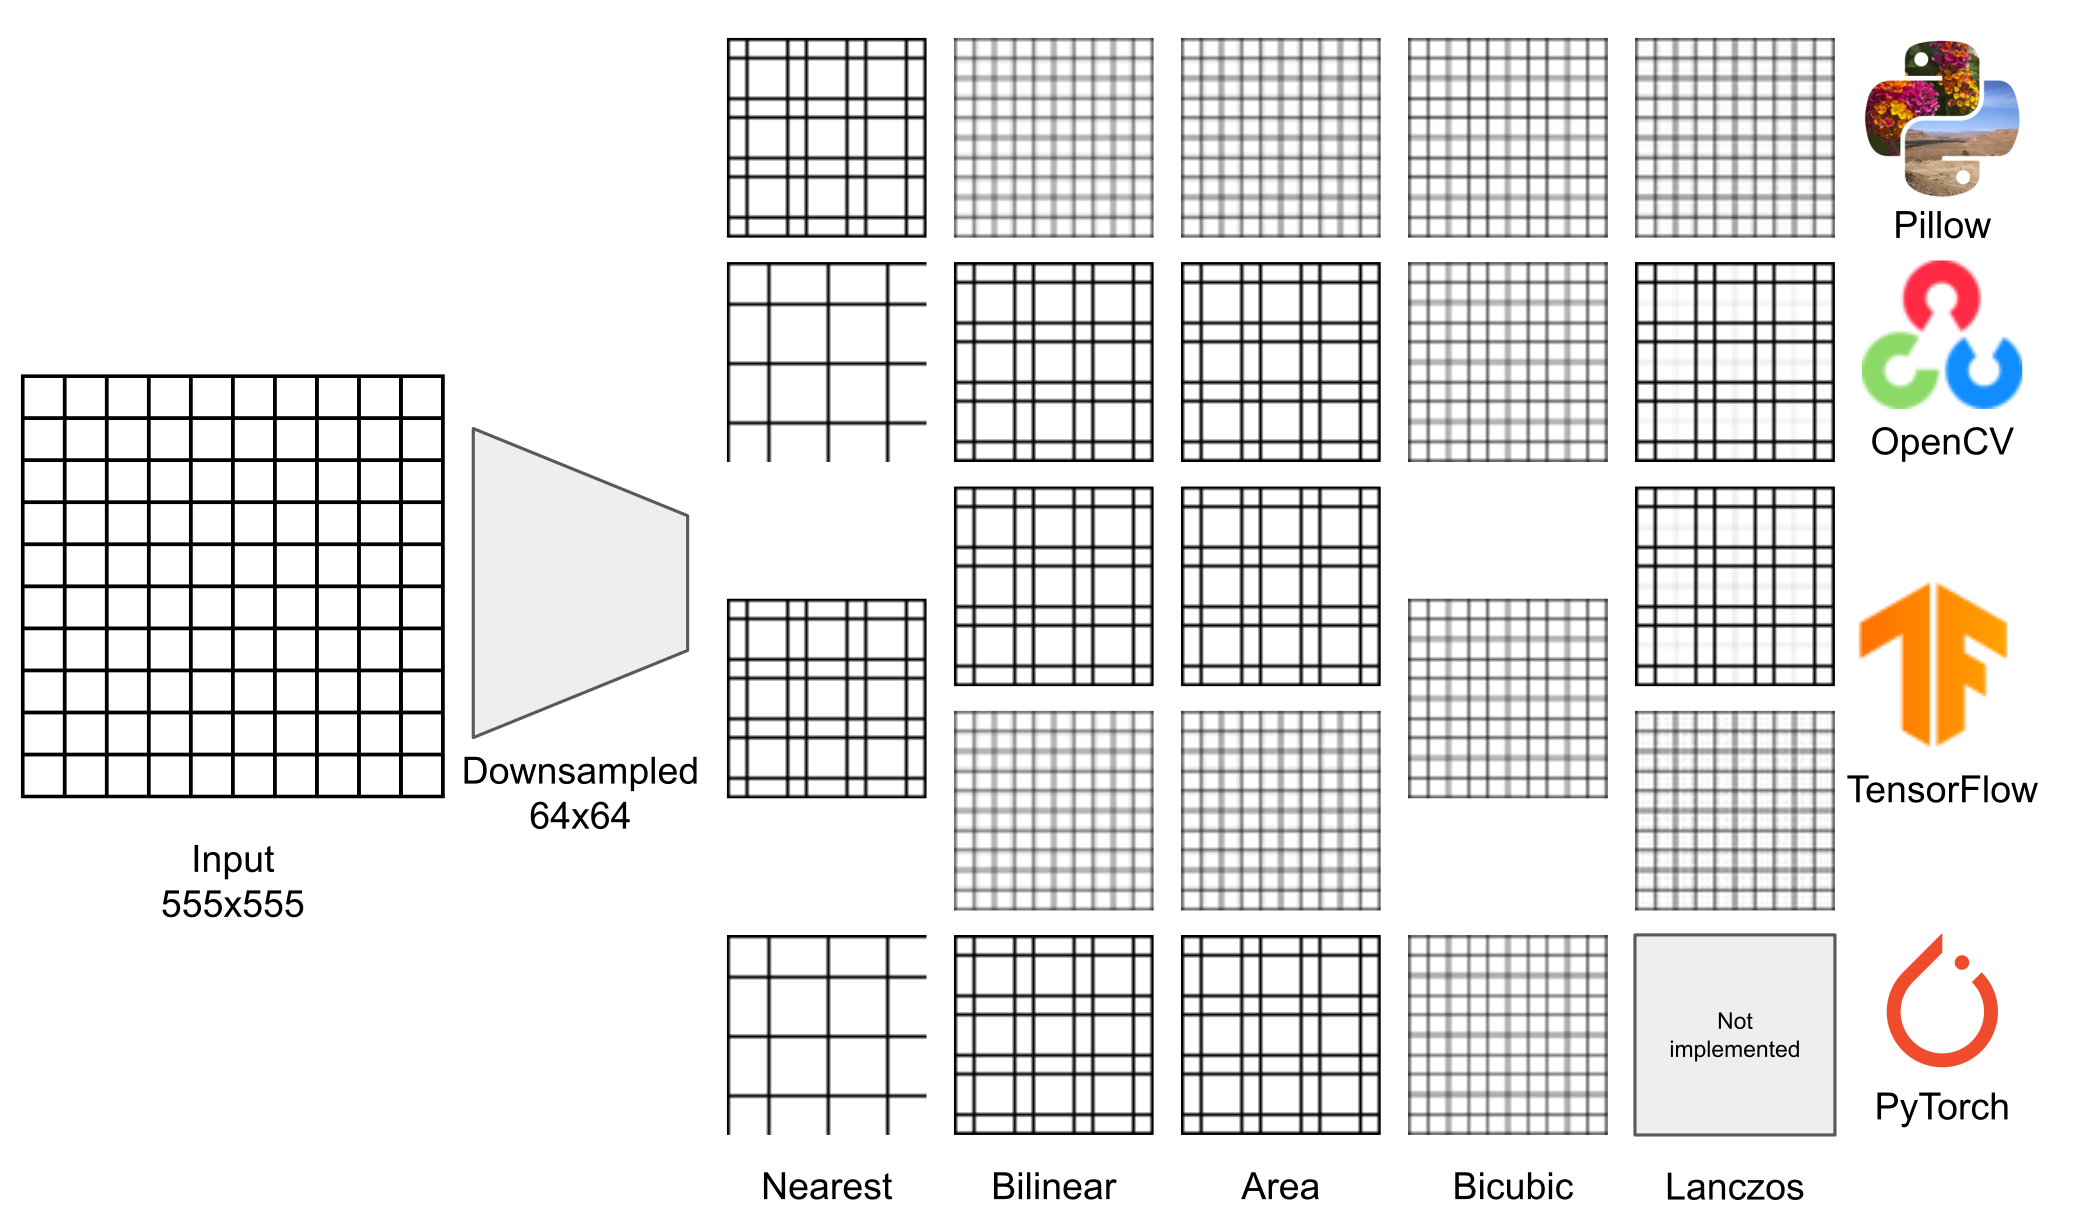
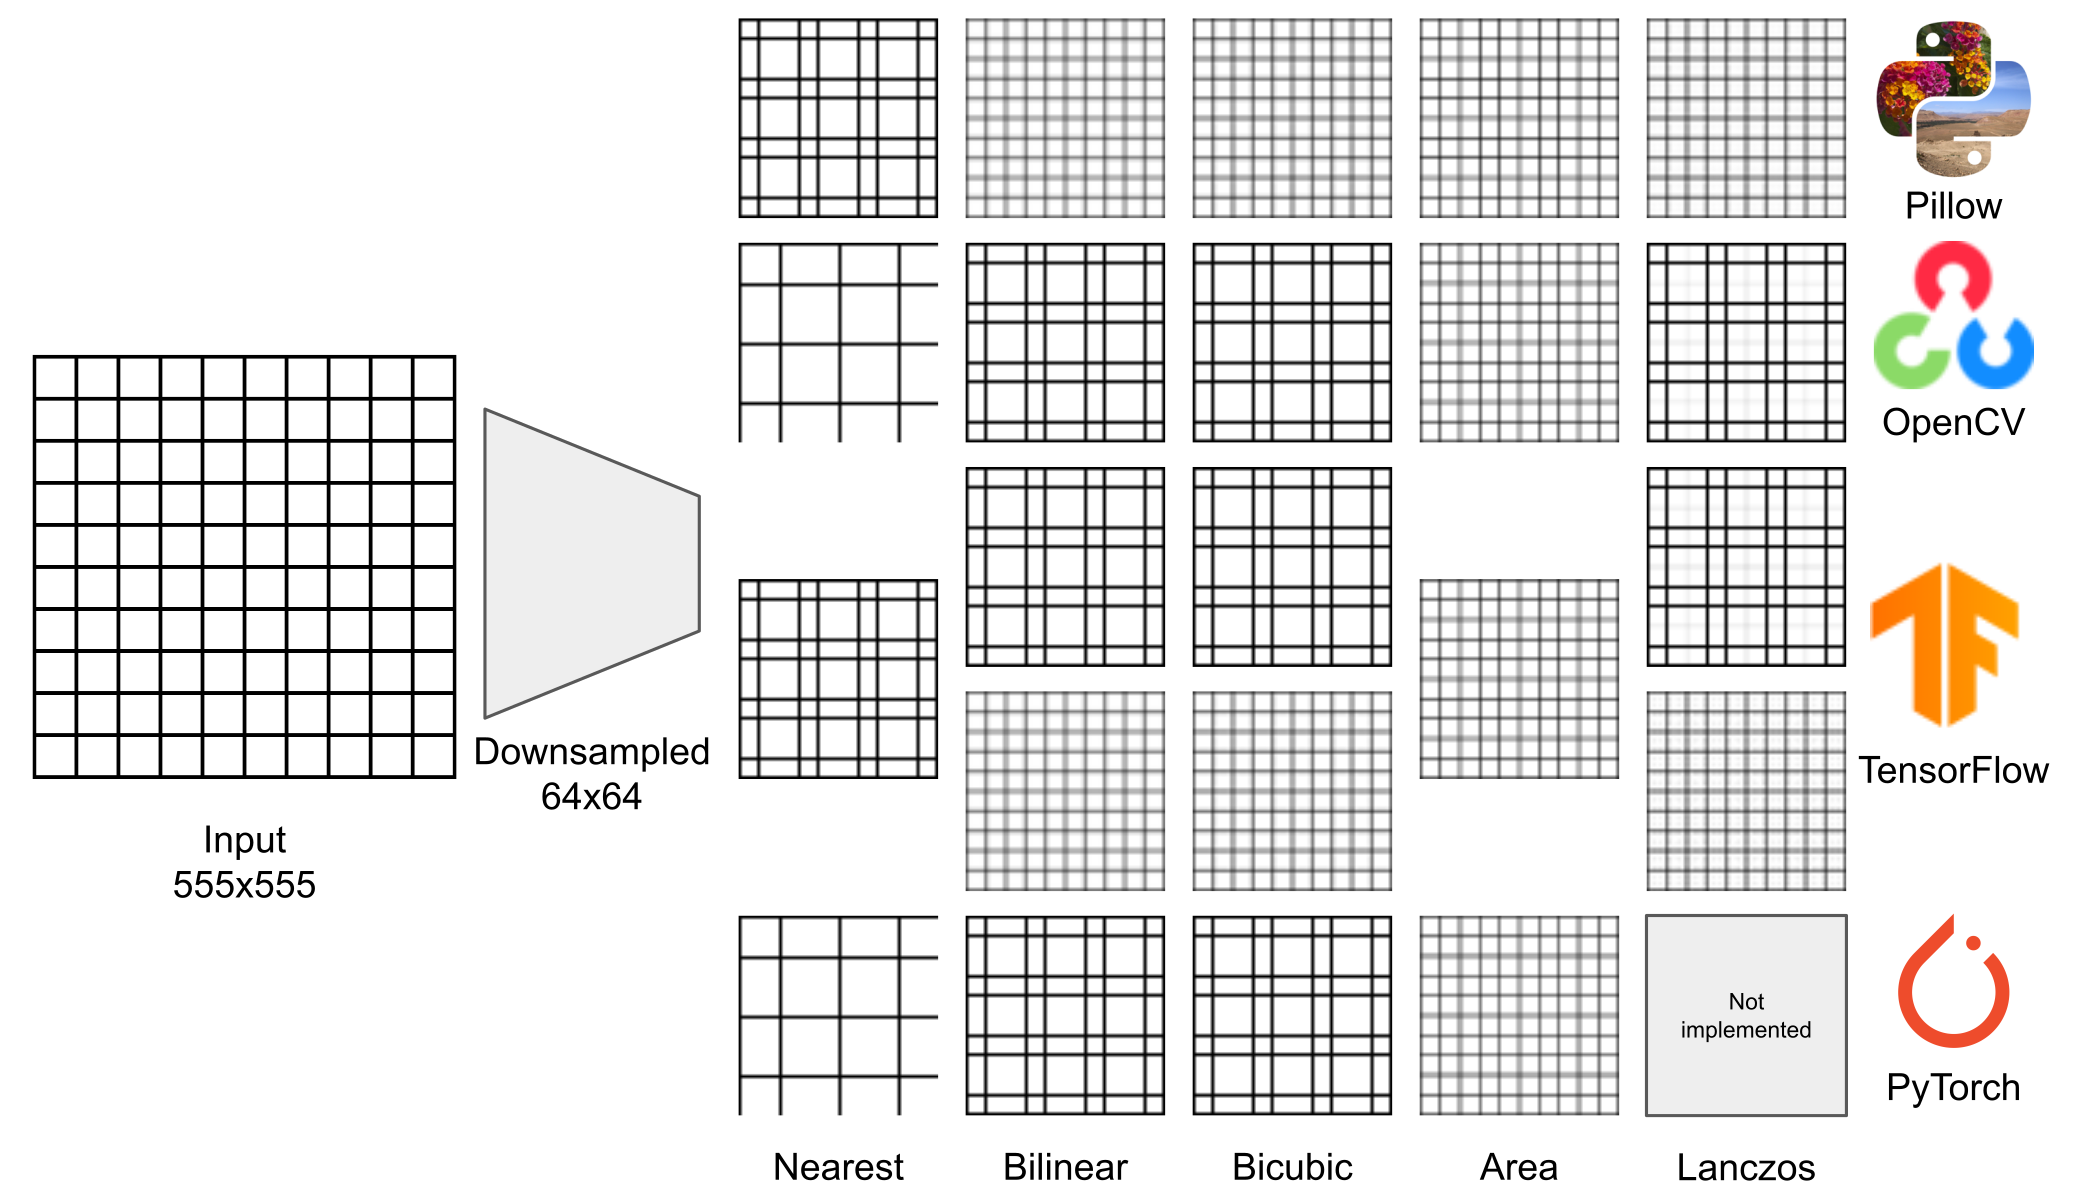
🍱 add new images + update post

diff --git a/_posts/2021-08-09-image-resizing.md b/_posts/2021-08-09-image-resizing.md
@@ -46,6 +46,7 @@ The naive approach, is to round the coordinates to the nearest integers (_neares
 
 Here come the main problems, different libraries could have some little differences in how they implement the interpolation filters but above all, if they introduce the **anti-aliasing filter**. In fact, if we interpret the image scaling as a form of image resampling from the view of the [Nyquist sampling theorem](https://en.wikipedia.org/wiki/Nyquist%E2%80%93Shannon_sampling_theorem), downsampling to a smaller image from a higher-resolution original can only be carried out after applying a suitable 2D anti-aliasing filter to prevent aliasing artifacts.
 
+The definitions of scaling functions are mathematical and should never be a function of the library being used. Unfortunately, implementations differ across commonly-used libraries.  
 `OpenCV` that could be considered a standard de-facto in image processing does not use anti-aliasing filter, instead `Pillow`, probably the most known and used image processing in python, introduce the anti-aliasing filter.
 
 
@@ -54,47 +55,79 @@ Here come the main problems, different libraries could have some little differen
 To have an idea on how the different implementations affect the resized output image, we made a comparison of four libraries, the ones we considered the most used, in particular in the ML fields. Moreover, we focused on libraries that could be used from python.
 
 We tested the following libraries and methods:
-- OpenCV v4.5.3: [`cv2.resize`](https://docs.opencv.org/4.5.2/da/d54/group__imgproc__transform.html#ga47a974309e9102f5f08231edc7e7529d)
-- Pillow Image Library (PIL) v8.2.0: [`Image.resize`](https://pillow.readthedocs.io/en/stable/reference/Image.html#PIL.Image.Image.resize)
-- TensorFlow v2.5.0: [`tf.image.resize`](https://www.tensorflow.org/api_docs/python/tf/image/resize)
+1. OpenCV v4.5.3: [`cv2.resize`](https://docs.opencv.org/4.5.2/da/d54/group__imgproc__transform.html#ga47a974309e9102f5f08231edc7e7529d)
+2. Pillow Image Library (PIL) v8.2.0: [`Image.resize`](https://pillow.readthedocs.io/en/stable/reference/Image.html#PIL.Image.Image.resize)
+3. TensorFlow v2.5.0: [`tf.image.resize`](https://www.tensorflow.org/api_docs/python/tf/image/resize)
 
     This method has a flag `antialias` to enable the anti-aliasing filter (default is false), we tested the method in both cases, either flag disabled and enabled.
 
-- PyTorch v1.9.0: [`torch.nn.functional.interpolate`](https://pytorch.org/docs/stable/generated/torch.nn.functional.interpolate.html)
+4. PyTorch v1.9.0: [`torch.nn.functional.interpolate`](https://pytorch.org/docs/stable/generated/torch.nn.functional.interpolate.html)
 
     PyTorch has another method for resizing, that is `torchvision.transforms.Resize`, we decided do not use for the test because is a wrapper around the PIL library, so the results are the same.
 
-Each methods have been tested with different filters, in particular:
-- **nearest**: the most naive approach of subsampling every N-th element and often leads to aliasing. The high-frequency information in the original image becomes misrepresented in the downsampled image. Incorrectly implemented filters inadvertently resemble this naive approach.
+
+Each methods supports some filters, so we choose a common subset and we tested the previous libraries with different filters. In particular:
+- **nearest**: the most naive approach of subsampling every N-th element and often leads to aliasing. The high-frequency information in the original image becomes misrepresented in the downsampled image. 
 - **bilinear**: linear filter that works by interpolating pixel color values, introducing a continuous transition into the output even where the original material has discrete transitions. It is an extension of linear interpolation to a rectangular grid.
 - **bicubic**: similar to _bilinear_ filter but in contrast to it, which only takes 4 pixels (2×2) into account, bicubic interpolation considers 16 pixels (4×4). Images resampled with bicubic interpolation should be smoother and have fewer interpolation artifacts.
 - **lanczos**: calculate the output pixel value using a high-quality Lanczos filter (a truncated sinc) on all pixels that may contribute to the output value, typically it is used a 8x8 neighborhood.
 - **box** or **area**: is the simplest linear filter; while better than naive subsampling above, it is typically not used. Each pixel of source image contributes to one pixel of the destination image with identical weights.
 
+### Qualitative results
 
-To give you an immediate idea of the different results obtained with the presented functions, we follow the test made in [[1]](#paper_fid). We create a synthetic image 128x128 with a circle with thickness 1 pixel and we resized with a downscaling factor of 4 (destination image will be 32x32).
+To better see the different results obtained with the presented functions, we follow the test made in [^1]. We create a synthetic image 128x128 with a circle with thickness 1 pixel and we resized with a downscaling factor of 4 (destination image will be 32x32).  
+We decided to focus on downsampling because it involves throwing away
+information and is more error-prone.  
+Here you can see the qualitative results of our investigation: 
 
 
 <div class="blog-image-container">
     <figure>
         <img class="blog-image" alt="comparison on circle" src="/images/image-resizing/circle_comparison.png" width="100%">
-        <figcaption>Comparison of methods on synthetic image of a circle</figcaption>
+        <figcaption>Comparison of methods on synthetic image of a circle.</figcaption>
     </figure>
 </div>
 
+In the picture we add an icon to highlight if the downsampling method antialias and remove high-frequencies in the correct way. We use a green icon to show good results, yellow if the filter does not provide sufficient antialiasing, red if artifacts are introduced in the low-resolution image.  
 
-As you can see main differences are between 
+As you can see, even downsampling a simple image of a circle provides wildly inconsistent results across different libraries.  
+It seems that Pillow is the only one that performs downsampling in the right way, in fact apart for the _nearest_ filter that, for definition does not apply antialiasing, all the others does not introduce artifacts and produces a connected ring. 
 
+OpenCV and PyTorch achieve very similar results for all the filters and both does not use antialiasing filter.  
+This sparse input image shows that these implementations do not properly blur, resulting in a disconnected set of dots after downsampling given a poor representation of the input image. 
+
+TensorFlow has an hybrid behavior, if you don't enable the antialiasing flag (default) the results are the same of OpenCV, instead if you enable it you get the same results of Pillow.
+
+The interesting part is that there are differences even for a filter like the _nearest neighbor_ that is quite straightforward to implement. Instead the box filter seems to give the same results among the libraries.  
+The other methods could be group into 2 categories, the ones similar to Pillow and the ones similar to OpenCV.
+
+We further evaluate the libraries with other synthetic images with patterns.  
+The first one is a grid of white square 50x50 with 5 pixel of black border.
 
 <div class="blog-image-container">
     <figure>
         <img class="blog-image" alt="comparison on grid" src="/images/image-resizing/grid_comparison.png" >
-        <figcaption>Comparison of methods on synthetic image of a grid</figcaption>
+        <figcaption>Comparison of methods on synthetic image of a grid.</figcaption>
+    </figure>
+</div>
+
+The previous consideration are valid also in this case, and it clear how without the antialiasing the resulting image does not represent correctly the input.
+If you look at OpenCV results, it is curious that are in practice the same than the nearest neighbor of Pillow, it's like incorrectly implemented filters inadvertently resemble the naive approach.
+
+Another interesting pattern is the following one, it is similar to the previous grid but here we increase the border to 22 pixels and the squares are 20x20 pixel (note that we use a slightly different value for the border and the squares).
+
+### Natural images
+
+<div class="blog-image-container">
+    <figure>
+        <img alt="grid" src="/images/image-resizing/grid/grid2.png" width=100>
+        <img alt="grid" src="/images/image-resizing/grid/grid2.png" width=100>
+        <figcaption>Grid.</figcaption>
     </figure>
 </div>
 
 
-We choose to use synthetic image because we want to to enhance the creation of artifact and see the differences between the libraries. These differences are more difficult to see on natural images, i.e. the ones acquired with a camera. In this case, as you see can below the differences are caused by the antialasing filter.
+We choose to use synthetic image because we want to to enhance the creation of artifact and see the differences between the libraries. These differences are more difficult to see on natural images, i.e. the ones acquired with a camera. In this case, as you see can in the figures below, the result with the _nearest neighbor_ filter are quite the same instead, using the _bilinear_ is visible the effect of the antialasing filter.
 
 <div class="blog-image-container">
     <figure>
@@ -102,13 +135,18 @@ We choose to use synthetic image because we want to to enhance the creation of a
         <figcaption>Nearest neighbor interpolation on natural image.</figcaption>
     </figure>
 </div>
-
+<div class="blog-image-container">
+    <figure>
+        <img class="blog-image" alt="bilinear on dog" src="/images/image-resizing/dog_bilinear.png" >
+        <figcaption>Bilinear interpolation on natural image.</figcaption>
+    </figure>
+</div>
 
 ## Pillow Resize
 
-Since we want to deploy out applications in C++, and we noted that the correct behavior is the Pillow one, we decided to make a porting of the method in C++.  
+Since we are interested in deploying our applications in C++, and we noted that the most correct behavior is given by the Pillow resize, we would like to use it in C++.  
 The Pillow [image processing](https://github.com/python-pillow/Pillow/blob/master/src/libImaging/) algorithms are almost all written in C, but they cannot be used directly used because they are designed to be used by the python wrapper.  
-To have an alternative to OpenCV in C++ we released a porting of these methods in a new standalone library that works on `cv::Mat`.
+We released a porting of the resize method in a new standalone library that works on `cv::Mat` so it will be compatible with all OpenCV algorithms.
 
 TODO: insert correct link to repo
 
@@ -118,8 +156,11 @@ TODO: insert correct link to repo
 
 # References
 
-- [1] [On Buggy Resizing Libraries and Surprising Subtleties in FID Calculation](https://arxiv.org/abs/2104.11222) 
-<a id="paper_fid"></a>
+[^1]: [On Buggy Resizing Libraries and Surprising Subtleties in FID Calculation](https://arxiv.org/abs/2104.11222) 
 
-- [2] [Geometric Image Transformations](https://docs.opencv.org/4.5.2/da/d54/group__imgproc__transform.html)
+[^2]: [Geometric Image Transformations](https://docs.opencv.org/4.5.2/da/d54/group__imgproc__transform.html)
 
+
+
+<br><br>
+_I want to acknowledge Guido Salto for helping in the choice of the patterns that better highlight the artifacts and the differences in the results._
